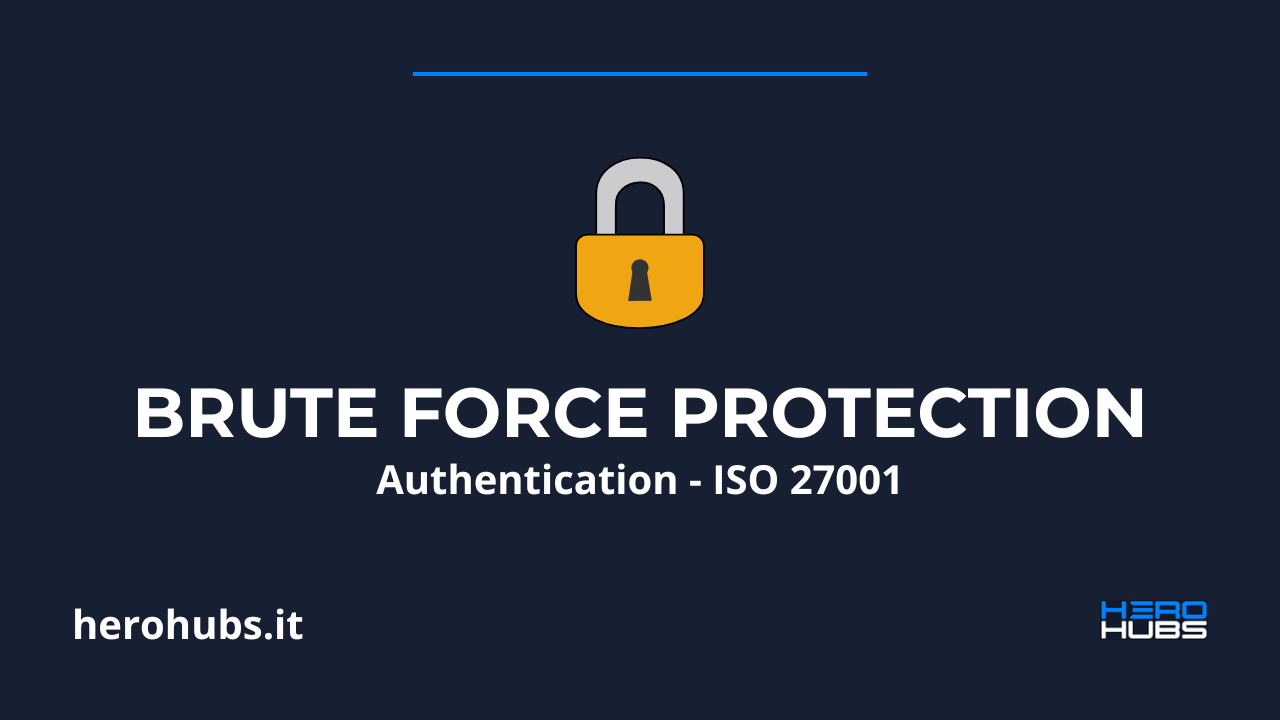
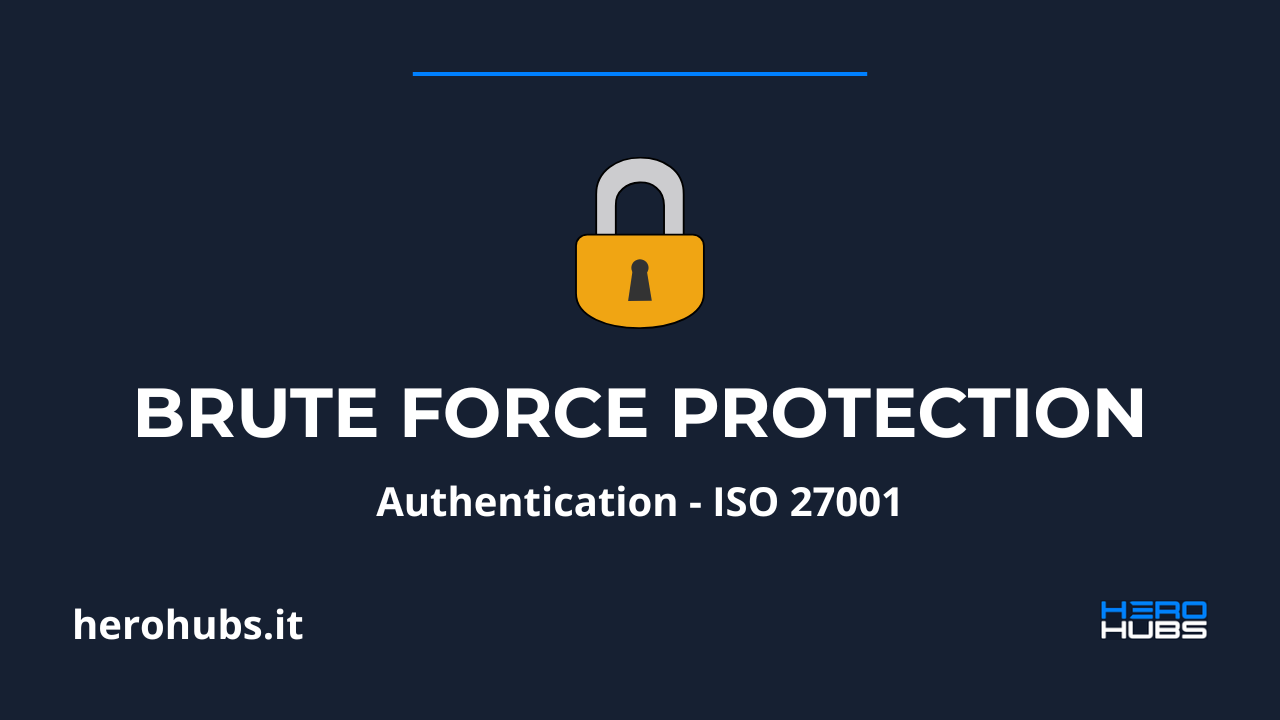
feat(blog): publish article 49 on Conventional Commits
Set draft to false and finalise both language versions: add the cover
and inline images, commit message and commitlint config examples, a
reference to the official specification, and capitalise section headings.

Changed region(s): [[0.2812, 0.6417, 0.7188, 0.7333]]

diff --git a/src/content/posts/en/49.md b/src/content/posts/en/49.md
@@ -2,37 +2,62 @@
 title: 'Conventional Commits: the commit message as a technical document'
 meta_title: 'Conventional Commits: automated changelog and semantic versioning'
 description: 'Writing commit messages freely is a convention that forms through inertia. Conventional Commits replaces it with a structure that generates value automatically.'
-date: 2026-05-23T09:00:00Z
-image: /images/posts/post-49.jpg
+date: 2026-06-22T09:00:00Z
+image: /images/posts/post-49.png
 categories:
   - Sviluppo
-draft: true
+draft: false
 ---
 
 Most teams have never explicitly discussed how to write commit messages. An unspoken convention forms over time, often shaped by the style of the first developer to open the repository, and that convention persists until the team grows and coherence quietly deteriorates. The commit message is the most pervasive historical document a project produces: every technical decision, every bug fix, every refactoring leaves a trace. Treating that trace as a free-form field to fill in however one likes means squandering one of the most valuable understanding tools available to anyone working on the code, today or years from now.
 
-##### the structure of the format
+##### The structure of the format
 
 Conventional Commits is a lightweight specification that defines a minimal set of rules for message structure. The format includes a type, an optional scope, and a short description, followed by an optional body and footers. The canonical types are few and immediately intuitive: feat for a new feature, fix for a bug correction, docs for documentation, refactor for reorganisations that do not change external behaviour, chore for maintenance tasks such as dependency updates. An exclamation mark after the type signals a breaking change, information that would otherwise require reading the full diff to identify.
 
+```bash
+# A new feature with a scope
+feat(auth): add password strength meter
+
+# A bug fix
+fix(api): handle null response from payment gateway
+
+# Documentation only
+docs: update installation steps in README
+
+# A breaking change, signalled by the exclamation mark
+feat(api)!: drop support for legacy v1 endpoints
+```
+
 This structure is not arbitrary. It derives from the observation that commit messages serve to answer different questions depending on who reads them and when: a developer investigating a bug needs to know what changed and why, a technical lead preparing a release needs to understand what goes in the changelog and which semantic version to assign, a new team member needs to reconstruct the evolution of a piece of code without opening every individual diff. The format answers all these needs with the same structure.
 
-##### the value of tooling
+##### The value of tooling
 
 The most immediate and measurable benefit of adopting Conventional Commits is access to an ecosystem of tools that operate directly on message structure. Semantic-release analyses commits since the last tag, automatically determines the version type to release based on the conventions present (patch for fixes, minor for features, major for breaking changes), and publishes the release with the generated changelog. Google's Release-please does the same for projects hosted on GitHub, automatically opening a release pull request whenever commits have accumulated on the main branch. Conventional-changelog produces readable documents in any format without requiring additional configuration.
 
 These tools are not marginal advantages. They eliminate a category of repetitive, error-prone manual work: deciding which version to assign, writing the changelog, coordinating the release among team members. When the release process is determined by the structure of commits it is no longer a decision requiring a meeting or subjective judgement, but an automatic consequence of what the team has already documented in its normal workflow.
 
-##### readability as a project requirement
+##### Readability as a project requirement
 
 There is a less visible dimension of the value of Conventional Commits that concerns onboarding and long-term maintenance. A repository with a coherent, structured commit history is one in which a new developer can find their footing without having to ask anyone. Filtering commits by type, finding all fixes applied to a given module, reconstructing the history of a feature: operations that with free-form messages require reading and interpreting every entry become direct queries against structured metadata.
 
+![Conventional Commits specification homepage](/images/posts/post-49b.png)
+
 This has concrete consequences for how quickly a team can respond to an incident. When something breaks in production and the task is to identify which commit introduced the regression, the difference between a readable history and a list of messages like "fix", "update", "miscellaneous changes" can amount to hours of investigation. The structure does not serve the moment the commit is written, but every subsequent moment when that decision must be understood by someone who was not there.
 
-##### gradual adoption with commitlint
+##### Gradual adoption with commitlint
 
-Adopting Conventional Commits in a team does not require a retroactive migration or significant upfront effort. The most widely used tool for enforcing the format is commitlint, configurable in a few minutes and integrable with Husky to run validation as a pre-commit hook. Any message that does not meet the structure is rejected immediately, before it reaches the remote repository, with an error message that indicates exactly what to correct.
+Adopting Conventional Commits in a team does not require a retroactive migration or significant upfront effort. The most widely used tool for enforcing the format is commitlint, configurable in a few minutes and integrable with Husky or Lefthook to run validation as a commit-msg hook. Any message that does not meet the structure is rejected immediately, before it reaches the remote repository, with an error message that indicates exactly what to correct.
 
 The base configuration requires two packages and a minimal configuration file. Commitlint reads the message, validates it against the defined rules, and blocks the commit if the structure is not compliant. Adoption becomes gradual because every new commit written in the correct format moves the repository's history toward coherence without touching existing commits. In teams using editors such as VS Code, extensions that suggest the format as you type further reduce the initial friction.
 
+```javascript
+// commitlint.config.js
+export default {
+  extends: ['@commitlint/config-conventional'],
+};
+```
+
 The best time to introduce Conventional Commits is at the start of a project, but the second-best time is now. A partially structured commit history is already more useful than a completely free-form one, and the tooling works correctly even on repositories that have non-compliant commits in the past because it only operates on the range since the last release tag. The investment required is minimal compared to the value it returns over time: fewer manual versioning decisions, automatically generated changelogs, and a project history that answers questions instead of multiplying them.
+
+The full specification, with all the format rules and examples, is available on the [official Conventional Commits website](https://www.conventionalcommits.org/en/v1.0.0/).

diff --git a/src/content/posts/it/49.md b/src/content/posts/it/49.md
@@ -2,37 +2,62 @@
 title: 'Conventional Commits: il messaggio di commit come documento tecnico'
 meta_title: 'Conventional Commits: changelog automatico e versioning semantico'
 description: 'Scrivere i messaggi di commit in modo libero è una convenzione che si forma per inerzia. Conventional Commits la sostituisce con una struttura che genera valore automaticamente.'
-date: 2026-05-23T09:00:00Z
-image: /images/posts/post-49.jpg
+date: 2026-06-22T09:00:00Z
+image: /images/posts/post-49.png
 categories:
   - Sviluppo
-draft: true
+draft: false
 ---
 
 La maggior parte dei team non ha mai discusso esplicitamente di come scrivere i messaggi di commit. Si forma una convenzione tacita nel tempo, spesso il risultato dello stile del primo sviluppatore che ha aperto il repository, e quella convenzione resta intatta finché il team cresce e la coerenza si deteriora silenziosamente. Il messaggio di commit è il documento storico più capillare che un progetto produce: ogni decisione tecnica, ogni bug fix, ogni refactoring lasciano una traccia. Trattare quella traccia come un campo libero da compilare a piacere significa sprecare uno degli strumenti di comprensione più preziosi disponibili a chiunque lavori sul codice, oggi o tra anni.
 
-##### la struttura del formato
+##### La struttura del formato
 
 Conventional Commits è una specifica leggera che definisce un insieme minimo di regole per la struttura dei messaggi. Il formato prevede un tipo, un ambito opzionale e una descrizione breve, seguiti da corpo e footer opzionali. I tipi canonici sono pochi e immediati: feat per una nuova funzionalità, fix per una correzione di bug, docs per la documentazione, refactor per riorganizzazioni che non cambiano il comportamento esterno, chore per attività di manutenzione come aggiornamenti delle dipendenze. Il punto esclamativo dopo il tipo segnala un breaking change, informazione che altrimenti richiederebbe di leggere il diff completo per essere identificata.
 
+```bash
+# A new feature with a scope
+feat(auth): add password strength meter
+
+# A bug fix
+fix(api): handle null response from payment gateway
+
+# Documentation only
+docs: update installation steps in README
+
+# A breaking change, signalled by the exclamation mark
+feat(api)!: drop support for legacy v1 endpoints
+```
+
 Questa struttura non è arbitraria. Deriva dall'osservazione che i messaggi di commit servono a rispondere a domande diverse a seconda di chi li legge e quando: uno sviluppatore che indaga un bug ha bisogno di sapere cosa è cambiato e perché, un responsabile tecnico che prepara una release ha bisogno di capire cosa va nel changelog e quale versione semantica assegnare, un nuovo membro del team ha bisogno di ricostruire l'evoluzione di una parte del codice senza dover aprire ogni singolo diff. Il formato risponde a tutte queste esigenze con la stessa struttura.
 
-##### il valore del tooling
+##### Il valore del tooling
 
 Il beneficio più immediato e misurabile dell'adozione di Conventional Commits è l'accesso a un ecosistema di strumenti che operano direttamente sulla struttura dei messaggi. Semantic-release analizza i commit dall'ultimo tag, determina automaticamente il tipo di versione da rilasciare in base alle convenzioni presenti (patch per i fix, minor per le feature, major per i breaking change) e pubblica la release con il changelog generato. Release-please di Google fa lo stesso per i progetti ospitati su GitHub, aprendo automaticamente una pull request di rilascio ogni volta che ci sono commit accumulati sul branch principale. Conventional-changelog produce documenti leggibili in qualsiasi formato senza richiedere alcuna configurazione aggiuntiva.
 
 Questi strumenti non sono vantaggi marginali. Eliminano una categoria di lavoro manuale ripetitivo e soggetto a errori: decidere quale versione assegnare, scrivere il changelog, coordinare il rilascio tra i membri del team. Quando il processo di rilascio è determinato dalla struttura dei commit non è più una decisione che richiede riunione o giudizio soggettivo, ma una conseguenza automatica di ciò che il team ha già documentato nel proprio flusso di lavoro normale.
 
-##### la leggibilità come requisito di progetto
+##### La leggibilità come requisito di progetto
 
 C'è una dimensione meno visibile del valore di Conventional Commits che riguarda l'onboarding e la manutenzione a lungo termine. Un repository con una storia di commit coerente e strutturata è un repository in cui un nuovo sviluppatore può orientarsi senza dover chiedere a nessuno. Filtrare i commit per tipo, cercare tutti i fix applicati a un certo modulo, ricostruire la cronologia di una funzionalità: operazioni che con messaggi liberi richiedono di leggere e interpretare ogni voce diventano interrogazioni dirette su metadati strutturati.
 
+![Homepage della specifica Conventional Commits](/images/posts/post-49b.png)
+
 Questo ha conseguenze concrete sulla velocità con cui un team può rispondere a un incidente. Quando qualcosa si rompe in produzione e bisogna capire quale commit ha introdotto la regressione, la differenza tra una storia leggibile e un elenco di messaggi come "fix", "update", "varie modifiche" può valere ore di investigazione. La struttura non serve al momento in cui il commit viene scritto, ma a tutti i momenti successivi in cui quella decisione dovrà essere compresa da qualcuno che non c'era.
 
-##### adozione graduale con commitlint
+##### Adozione graduale con commitlint
 
-Adottare Conventional Commits in un team non richiede una migrazione retroattiva né un grande sforzo iniziale. Lo strumento più diffuso per rendere il formato obbligatorio è commitlint, configurabile in pochi minuti e integrabile con Husky per eseguire la validazione come hook pre-commit. In questo modo qualsiasi messaggio che non rispetta la struttura viene rifiutato immediatamente, prima che raggiunga il repository remoto, con un messaggio di errore che indica esattamente cosa correggere.
+Adottare Conventional Commits in un team non richiede una migrazione retroattiva né un grande sforzo iniziale. Lo strumento più diffuso per rendere il formato obbligatorio è commitlint, configurabile in pochi minuti e integrabile con Husky o Lefthook per eseguire la validazione come hook commit-msg. In questo modo qualsiasi messaggio che non rispetta la struttura viene rifiutato immediatamente, prima che raggiunga il repository remoto, con un messaggio di errore che indica esattamente cosa correggere.
 
 La configurazione base richiede due pacchetti e un file di configurazione minimale. Commitlint legge il messaggio, lo valida rispetto alle regole definite e blocca il commit se la struttura non è conforme. L'adozione diventa graduale perché ogni nuovo commit scritto nel formato corretto porta la storia del repository verso la coerenza senza dover toccare i commit esistenti. Nei contesti in cui il team usa editor come VS Code esistono estensioni che suggeriscono il formato mentre si scrive, riducendo ulteriormente l'attrito iniziale.
 
+```javascript
+// commitlint.config.js
+export default {
+  extends: ['@commitlint/config-conventional'],
+};
+```
+
 Il momento migliore per introdurre Conventional Commits è l'inizio di un progetto, ma il secondo momento migliore è adesso. Una storia di commit parzialmente strutturata è già più utile di una completamente libera, e il tooling funziona correttamente anche su repository che hanno commit non conformi nel passato perché opera solo sull'intervallo a partire dall'ultimo tag di rilascio. L'investimento richiesto è minimo rispetto al valore che restituisce nel tempo: meno decisioni manuali sul versioning, changelog generati automaticamente e una storia del progetto che risponde alle domande invece di moltiplicarle.
+
+La specifica completa, con tutte le regole del formato e gli esempi, è disponibile sul [sito ufficiale di Conventional Commits](https://www.conventionalcommits.org/en/v1.0.0/).